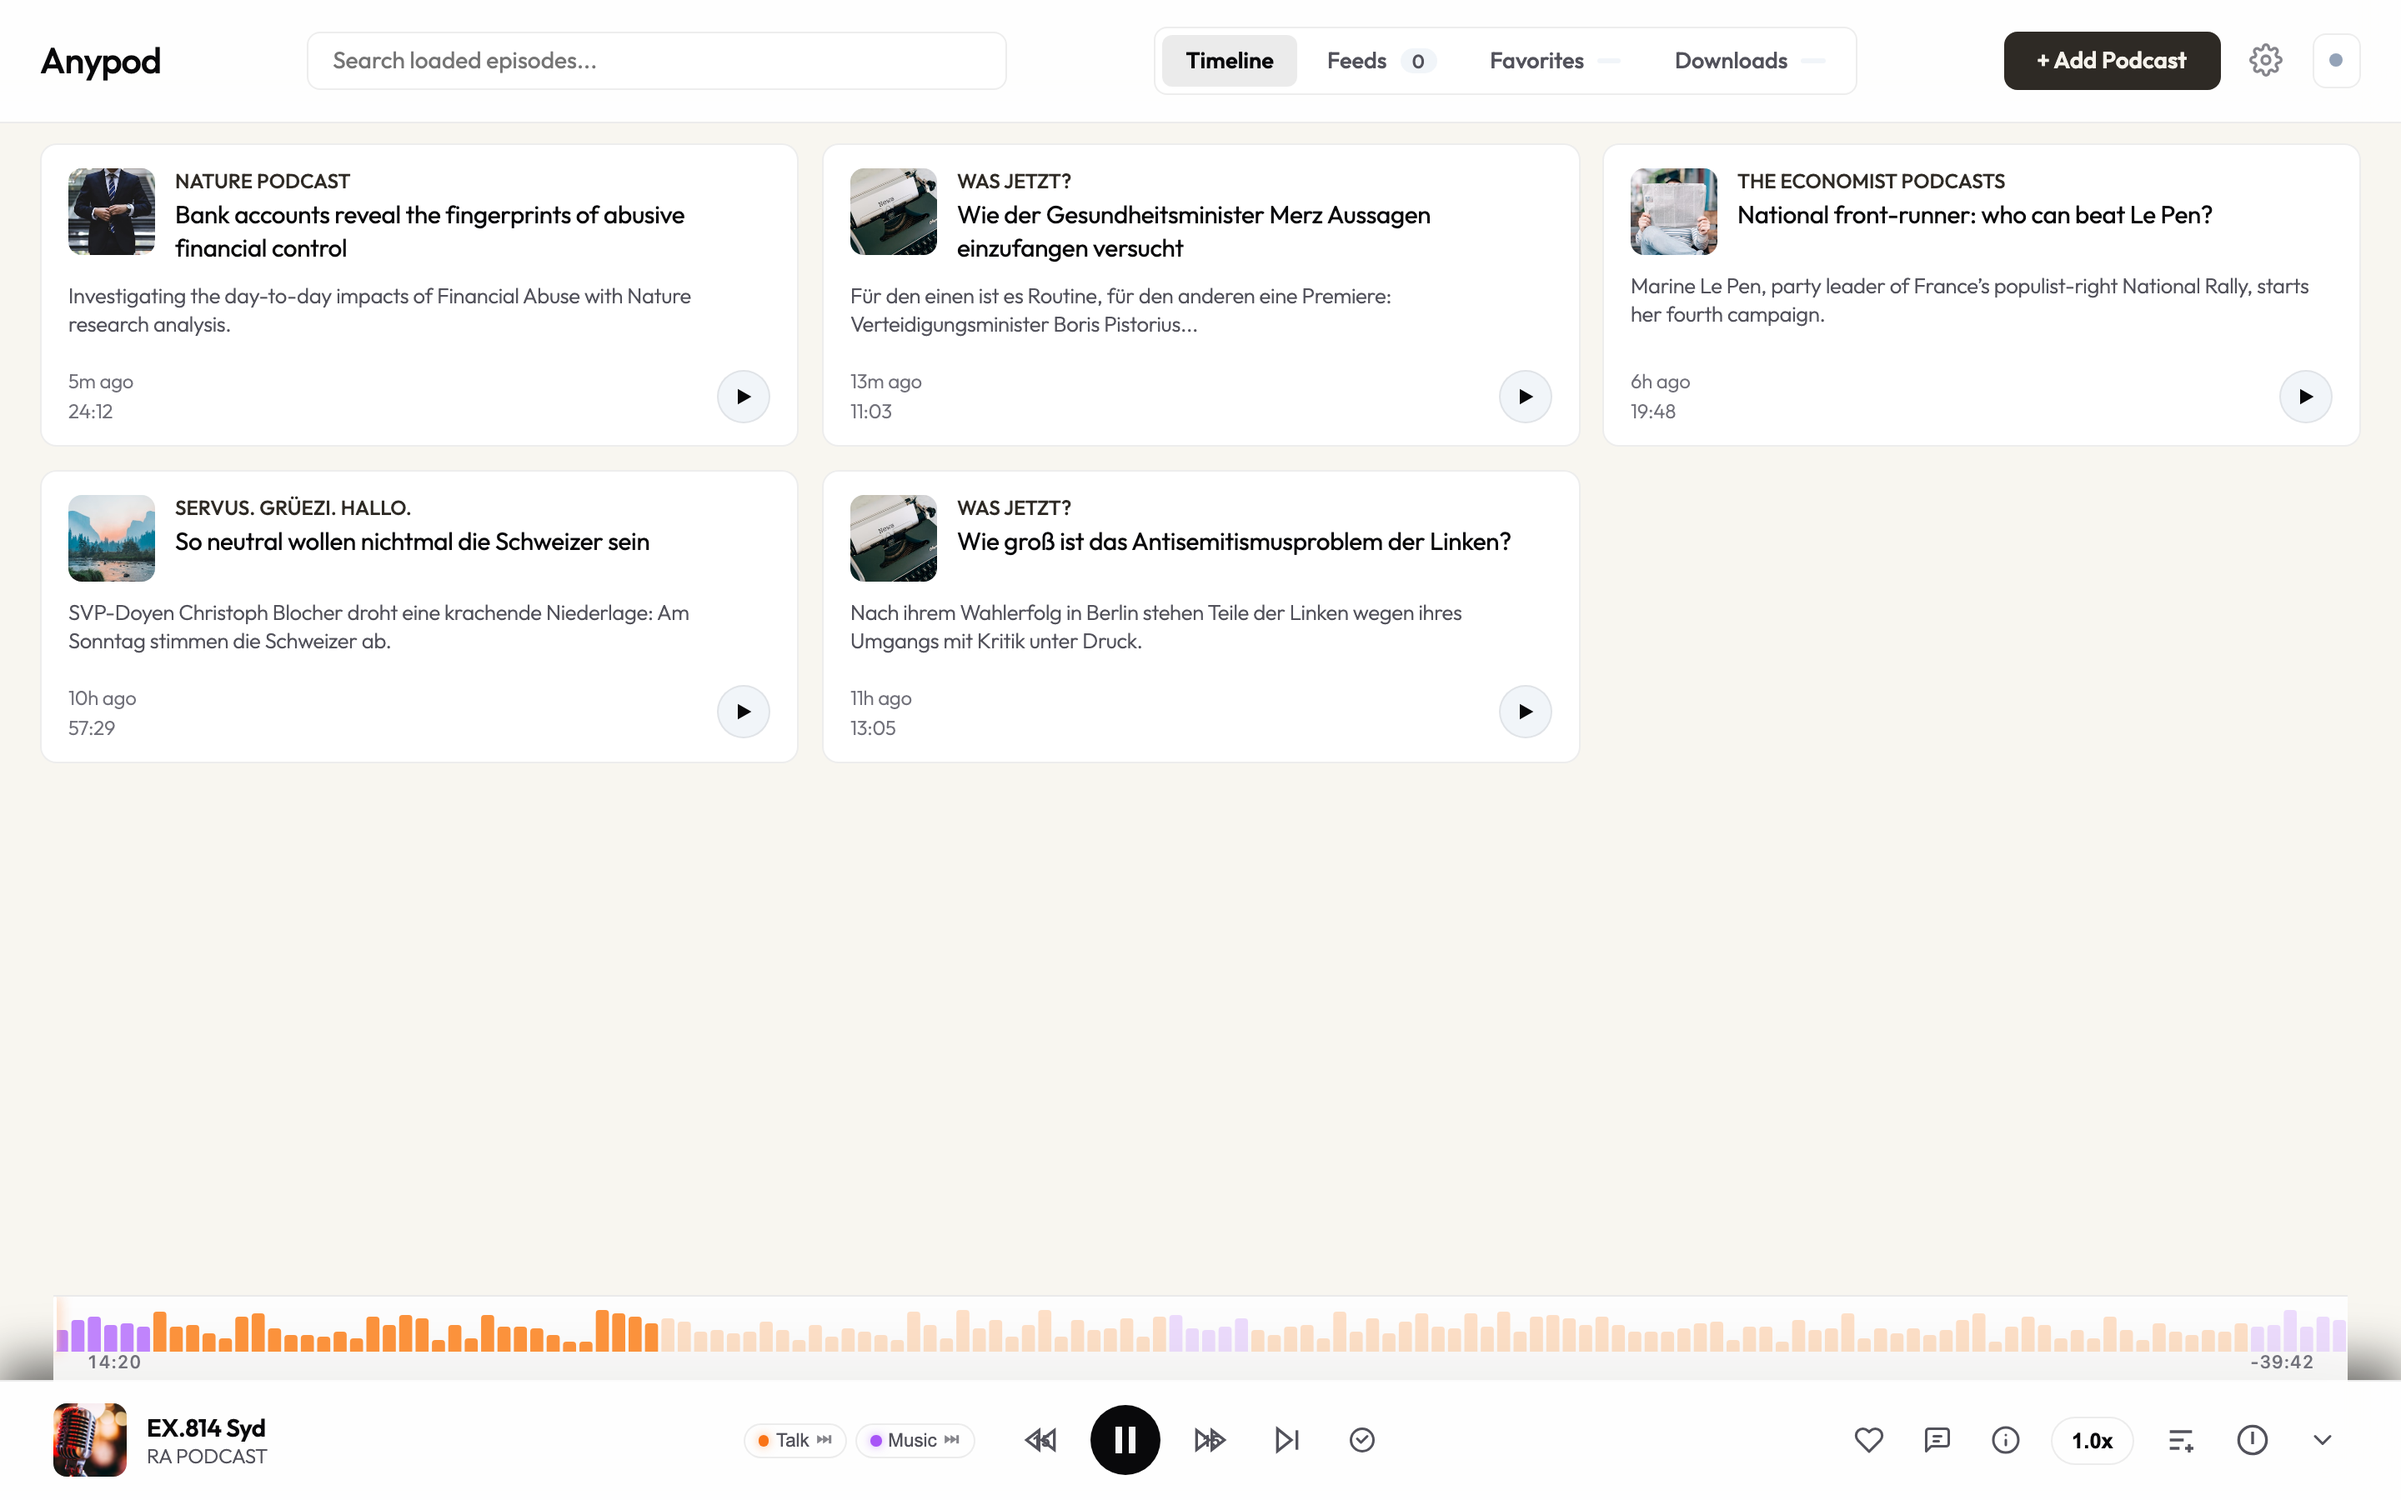
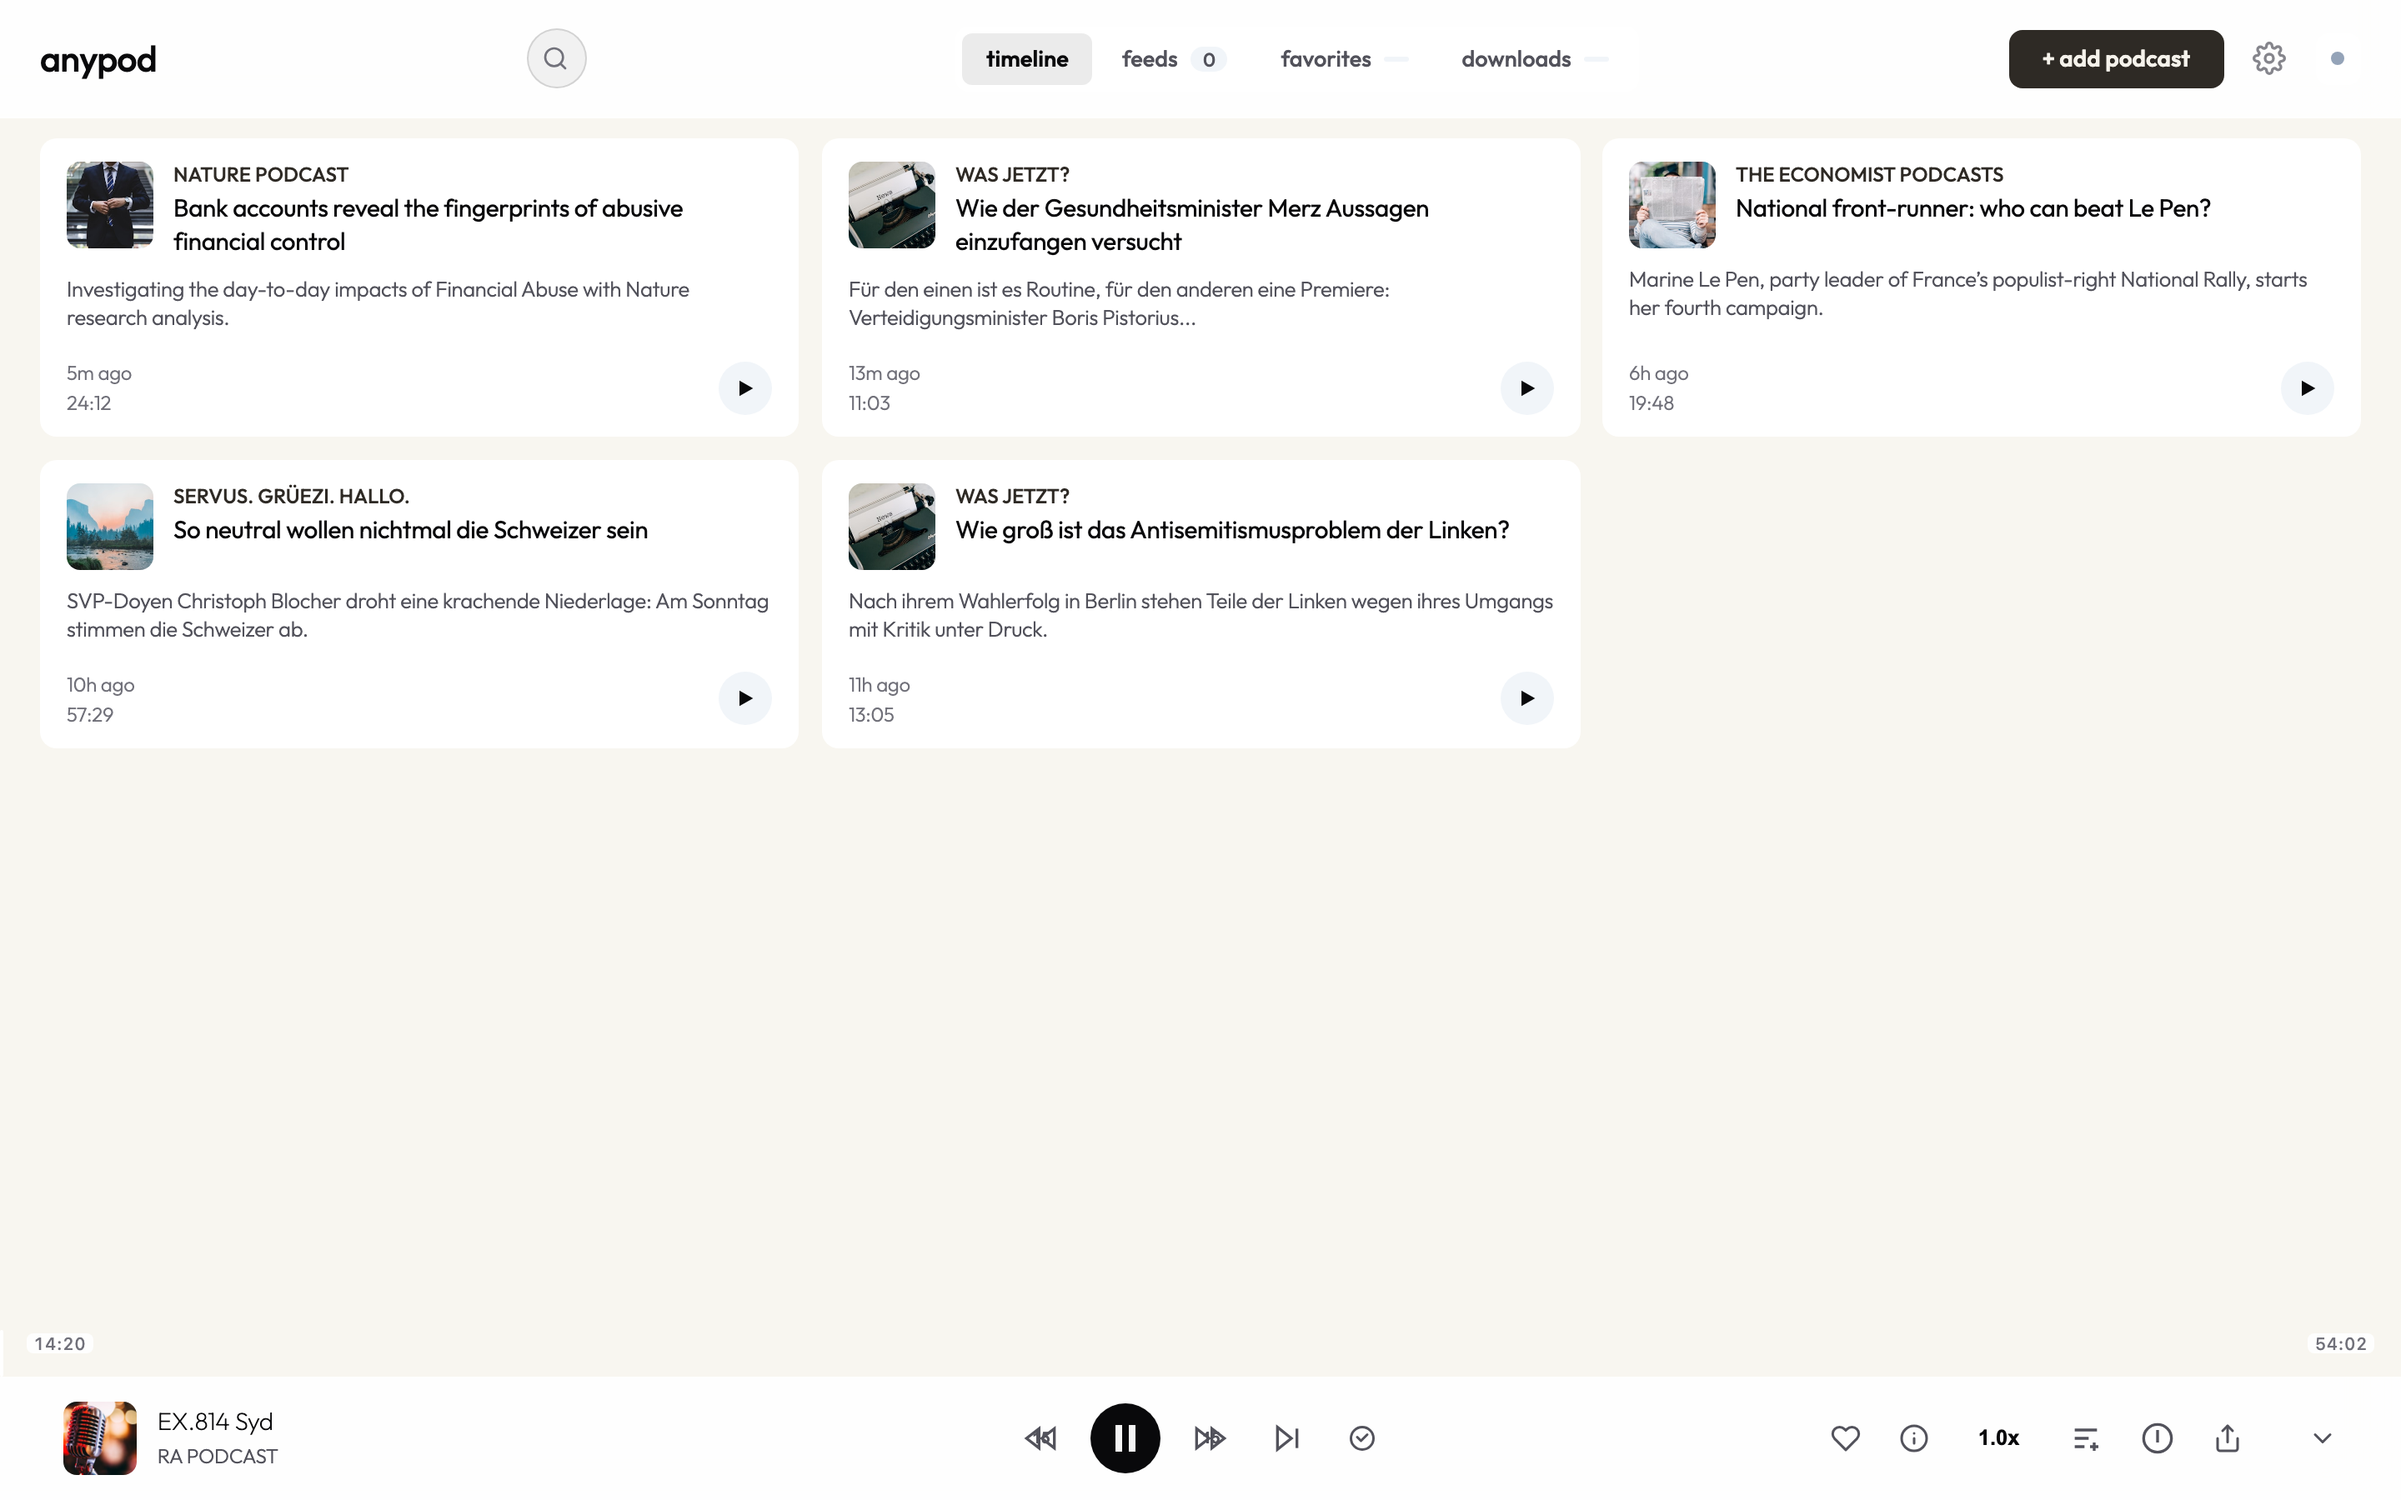
docs

diff --git a/scripts/capture_screenshots.js b/scripts/capture_screenshots.js
@@ -351,7 +351,7 @@ function inPageSetup(continueData, timelineData, feedsData) {
     const curTime = document.getElementById('current-time');
     if (curTime) curTime.textContent = '14:20';
     const totTime = document.getElementById('total-duration');
-    if (totTime) totTime.textContent = '-39:42';
+    if (totTime) totTime.textContent = '54:02';
     const seekBar = document.getElementById('seek-bar');
     if (seekBar) {
       seekBar.value = '26.5';
@@ -377,59 +377,7 @@ function inPageSetup(continueData, timelineData, feedsData) {
   const miniPlayIcon = document.querySelector('.mini-icon-play');
   if (miniPlayIcon) miniPlayIcon.classList.add('hidden');
   const miniPauseIcon = document.querySelector('.mini-icon-pause');
-  window.__renderWaveform = () => {
-    const wrap = document.getElementById('waveform-timeline-wrap');
-    const canvas = document.getElementById('episode-waveform-canvas');
-    if (!wrap || !canvas) return;
-    wrap.style.display = 'flex';
-    const rect = wrap.getBoundingClientRect();
-    const w = (rect.width > 0) ? rect.width : window.innerWidth;
-    const h = canvas.clientHeight || canvas.offsetHeight || 30;
-    const dpr = window.devicePixelRatio || 1;
-    canvas.width = Math.floor(w * dpr);
-    canvas.height = Math.floor(h * dpr);
-    const ctx = canvas.getContext('2d');
-    ctx.scale(dpr, dpr);
-    ctx.clearRect(0, 0, w, h);
-    const count = 140;
-    const bars = [];
-    let seed = 42;
-    for (let i = 0; i < count; i++) {
-      seed = (seed * 16807) % 2147483647;
-      const rand = (seed - 1) / 2147483646;
-      const pos = i / count;
-      const isMusic = pos < 0.04 || pos > 0.95 || (pos > 0.48 && pos < 0.52);
-      const val = isMusic ? (0.45 + rand * 0.4) : (0.2 + rand * 0.65);
-      bars.push({ height: parseFloat(val.toFixed(2)), type: isMusic ? 'music' : 'speech' });
-    }
-    const playheadX = 0.265 * w;
-    const barWidth = w / bars.length;
-    const gap = Math.max(1, Math.floor(barWidth * 0.28));
-    const drawWidth = Math.max(1.5, barWidth - gap);
-    for (let i = 0; i < bars.length; i++) {
-      const b = bars[i];
-      const barH = Math.max(3, Math.round(b.height * (h - 4)));
-      const x = i * barWidth + (gap / 2);
-      const y = h - barH;
-      const isPlayed = (x + drawWidth * 0.5) <= playheadX;
-      let color;
-      if (b.type === 'music') {
-        color = isPlayed ? '#c084fc' : 'rgba(192, 132, 252, 0.28)';
-      } else {
-        color = isPlayed ? '#fb923c' : 'rgba(251, 146, 60, 0.28)';
-      }
-      ctx.fillStyle = color;
-      const r = Math.min(drawWidth / 2, 2);
-      if (typeof ctx.roundRect === 'function') {
-        ctx.beginPath();
-        ctx.roundRect(x, y, drawWidth, barH, [r, r, 0, 0]);
-        ctx.fill();
-      } else {
-        ctx.fillRect(x, y, drawWidth, barH);
-      }
-    }
-  };
-  window.__renderWaveform();
+  document.body.classList.add('has-active-episode', 'has-full-player');
 
   window.__renderMockTimeline = () => {
     document.getElementById('empty-state')?.classList.add('hidden');
@@ -484,13 +432,19 @@ async function main() {
   const chrome = spawn(chromePath, [
     '--headless=new',
     `--remote-debugging-port=${debugPort}`,
-    '--window-size=1440,900',
-    `--user-data-dir=${tmpProfile}`,
+    '--no-sandbox',
     '--disable-gpu',
-    '--no-first-run',
-    '--no-default-browser-check',
+    `--user-data-dir=${tmpProfile}`,
     targetUrl
   ]);
+
+  chrome.stdout.on('data', data => console.log(`[Chrome stdout] ${data}`));
+  chrome.stderr.on('data', data => console.error(`[Chrome stderr] ${data}`));
+  chrome.on('exit', code => {
+    if (code !== null && code !== 0) {
+      console.error(`[Chrome process exited early with code ${code}]`);
+    }
+  });
 
   const cleanup = () => {
     try { chrome.kill(); } catch (e) {}
@@ -504,11 +458,11 @@ async function main() {
   process.on('SIGTERM', () => { cleanup(); process.exit(0); });
 
   let pageTarget = null;
-  for (let i = 0; i < 20; i++) {
+  for (let i = 0; i < 40; i++) {
     await new Promise(r => setTimeout(r, 250));
     try {
       const targets = await new Promise((resolve, reject) => {
-        http.get(`http://127.0.0.1:${debugPort}/json`, (res) => {
+        http.get(`http://localhost:${debugPort}/json`, (res) => {
           let data = '';
           res.on('data', chunk => data += chunk);
           res.on('end', () => resolve(JSON.parse(data)));
@@ -574,7 +528,6 @@ async function main() {
       document.querySelectorAll('.nav-tab').forEach(t => t.classList.remove('active'));
       document.getElementById('tab-timeline')?.classList.add('active');
       if (typeof window.__renderMockTimeline === 'function') window.__renderMockTimeline();
-      if (typeof window.__renderWaveform === 'function') window.__renderWaveform();
     `
   });
   await new Promise(r => setTimeout(r, 800));
@@ -590,7 +543,6 @@ async function main() {
       document.documentElement.setAttribute('data-theme', 'light');
       document.body.style.backgroundColor = '#f8f6f0';
       if (typeof window.__renderMockTimeline === 'function') window.__renderMockTimeline();
-      if (typeof window.__renderWaveform === 'function') window.__renderWaveform();
     `
   });
   await new Promise(r => setTimeout(r, 800));
@@ -619,7 +571,6 @@ async function main() {
       document.getElementById('panel-timeline')?.classList.add('active');
       document.querySelectorAll('.nav-tab').forEach(t => t.classList.remove('active'));
       document.getElementById('tab-timeline')?.classList.add('active');
-      if (typeof window.__renderWaveform === 'function') window.__renderWaveform();
       window.scrollTo(0, 0);
     `
   });
@@ -691,7 +642,6 @@ async function main() {
       document.querySelectorAll('.nav-tab').forEach(t => t.classList.remove('active'));
       document.getElementById('tab-timeline')?.classList.add('active');
       if (typeof window.__renderMockTimeline === 'function') window.__renderMockTimeline();
-      if (typeof window.__renderWaveform === 'function') window.__renderWaveform();
       window.scrollTo(0, 0);
     `
   });
@@ -725,30 +675,6 @@ async function main() {
   const mobileMiniLightPath = path.join(outDir, 'mobile-mini-light.png');
   fs.writeFileSync(mobileMiniLightPath, Buffer.from(mobileMiniLightShot.data, 'base64'));
   console.log(`Saved: ${mobileMiniLightPath} (${(fs.statSync(mobileMiniLightPath).size / 1024).toFixed(1)} KB)`);
-
-  // 8. Mobile Subscribed Feeds Light Mode
-  console.log('Capturing Mobile Subscribed Feeds (Light)...');
-  await send('Runtime.evaluate', {
-    expression: `
-      document.documentElement.setAttribute('data-theme', 'light');
-      document.body.style.backgroundColor = '#f8f6f0';
-      document.querySelectorAll('.tab-panel').forEach(p => p.classList.remove('active'));
-      document.getElementById('panel-feeds')?.classList.add('active');
-      document.querySelectorAll('.nav-tab').forEach(t => t.classList.remove('active'));
-      document.getElementById('tab-feeds')?.classList.add('active');
-      if (typeof window.__renderMockFeeds === 'function') window.__renderMockFeeds();
-      window.scrollTo(0, 0);
-    `
-  });
-  await new Promise(r => setTimeout(r, 800));
-  const mobileFeedsLightShot = await send('Page.captureScreenshot', {
-    format: 'png',
-    captureBeyondViewport: false,
-    clip: { x: 0, y: 0, width: 390, height: 844, scale: 1 }
-  });
-  const mobileFeedsLightPath = path.join(outDir, 'mobile-feeds-light.png');
-  fs.writeFileSync(mobileFeedsLightPath, Buffer.from(mobileFeedsLightShot.data, 'base64'));
-  console.log(`Saved: ${mobileFeedsLightPath} (${(fs.statSync(mobileFeedsLightPath).size / 1024).toFixed(1)} KB)`);
 
   ws.close();
   cleanup();
